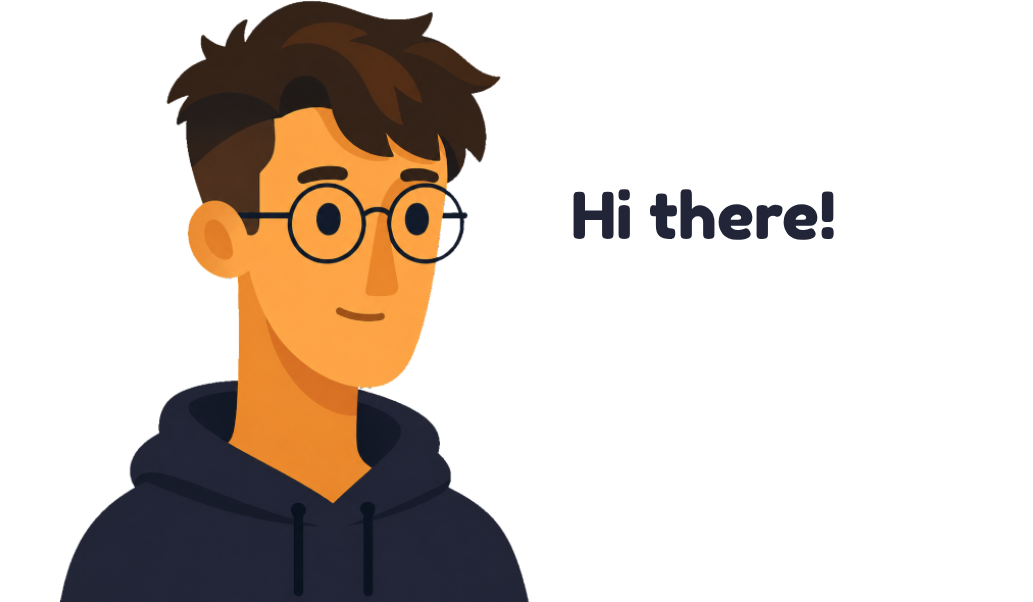
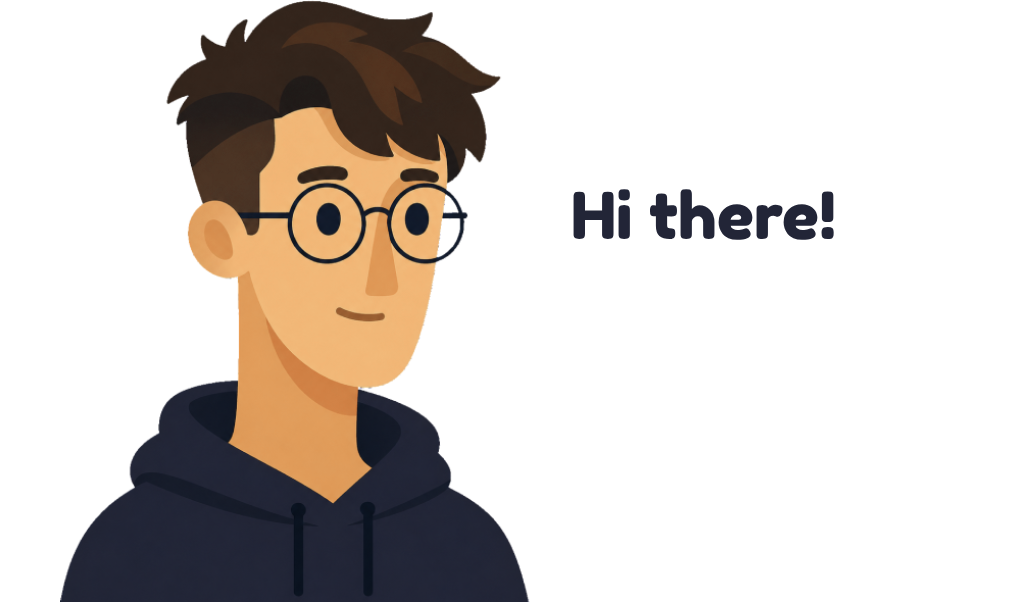
Image colors

Changed region(s): [[0.1859, 0.1794, 0.4337, 0.8372]]

diff --git a/index.html b/index.html
@@ -86,7 +86,7 @@
                 <li>Physics based movement</li>
                 <li>Character animations</li>
                 <li>Visual effects</li>
-                <li>Multiplayer Ready</li>
+                <li>Multiplayer ready</li>
               </ul>
 
               <div class="work__links">
